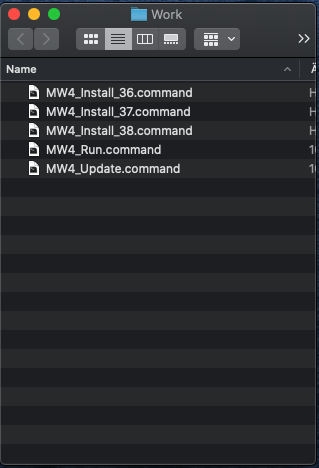
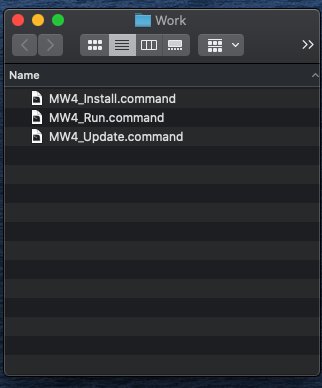
changed doc

Changed region(s): [[0.0, 0.0, 1.0, 1.0]]

diff --git a/docs/source/install_mw4.rst b/docs/source/install_mw4.rst
@@ -111,14 +111,11 @@ shows the progress of installation.
 
     MW4_Install.bat         # Windows
     MW4_Install.sh          # Ubuntu
-    MW4_Install_3x.command     # OSx
+    MW4_Install.command     # OSx
 
 With the script a virtual environment for python is installed in your working dir under the
 name "venv". After that it installs all necessary libraries and MW4 itself into this virtual
 environment. So any other installation of python applications is not influenced by MW4 install.
-
-For MacOSx please choose the script according the installed Python version for the
-installer (3.6, 3.7 or 3.8).
 
 After running the install script the directory should for OSx look like:
 
